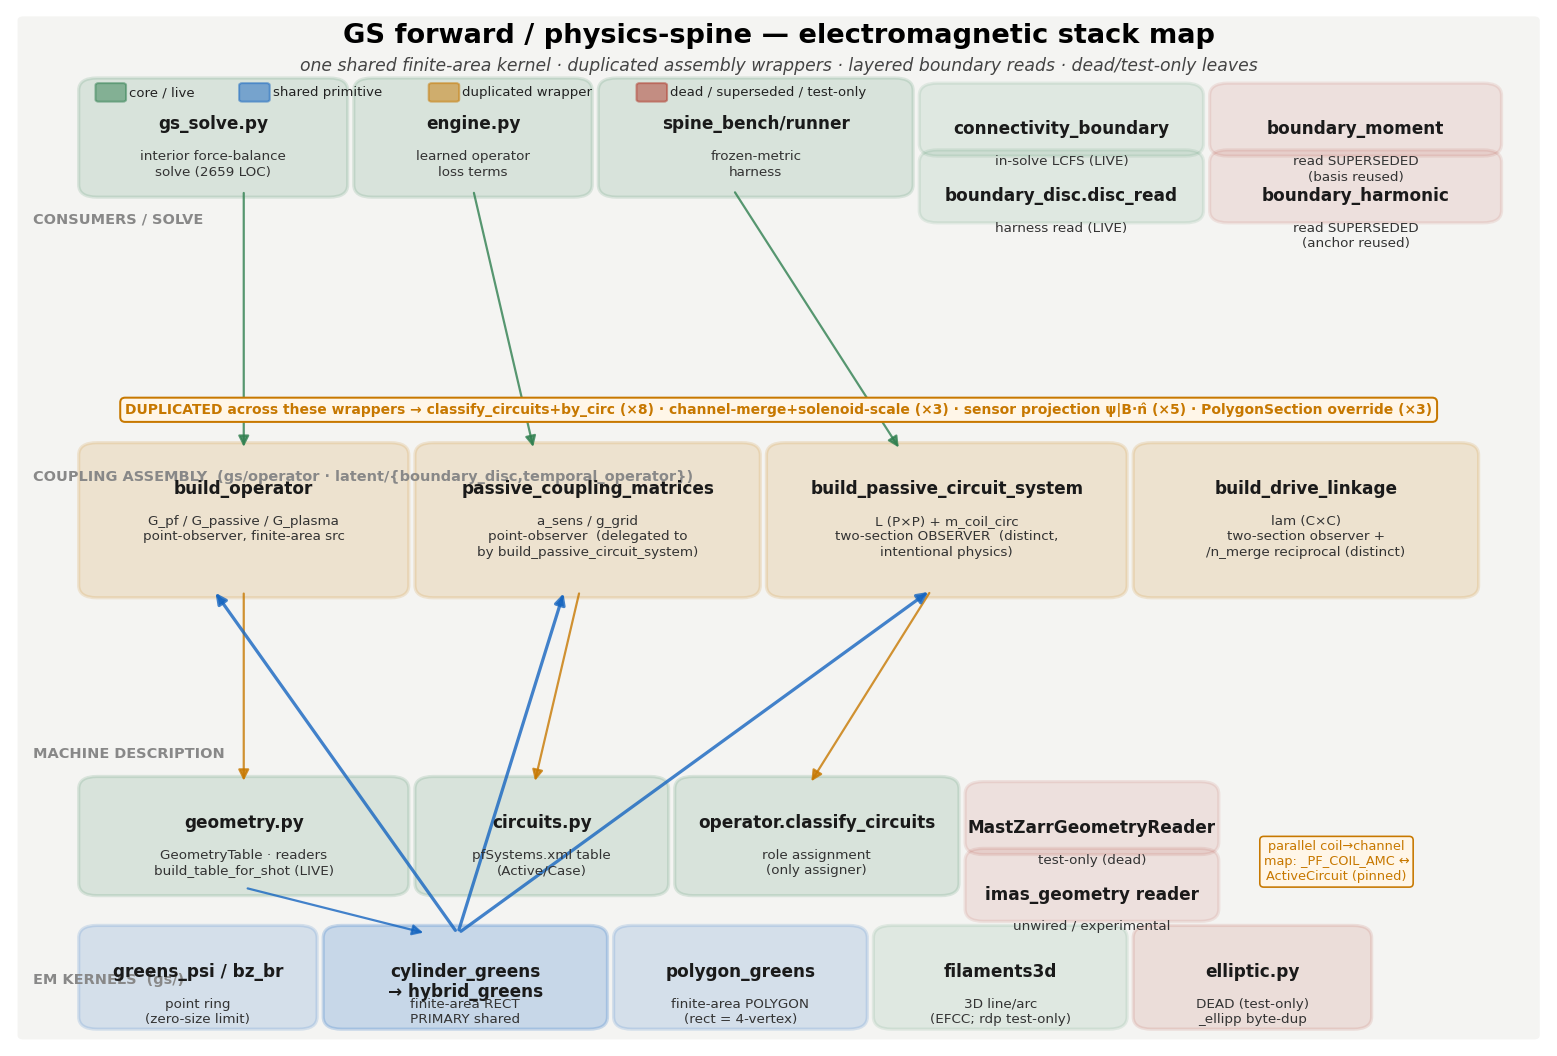
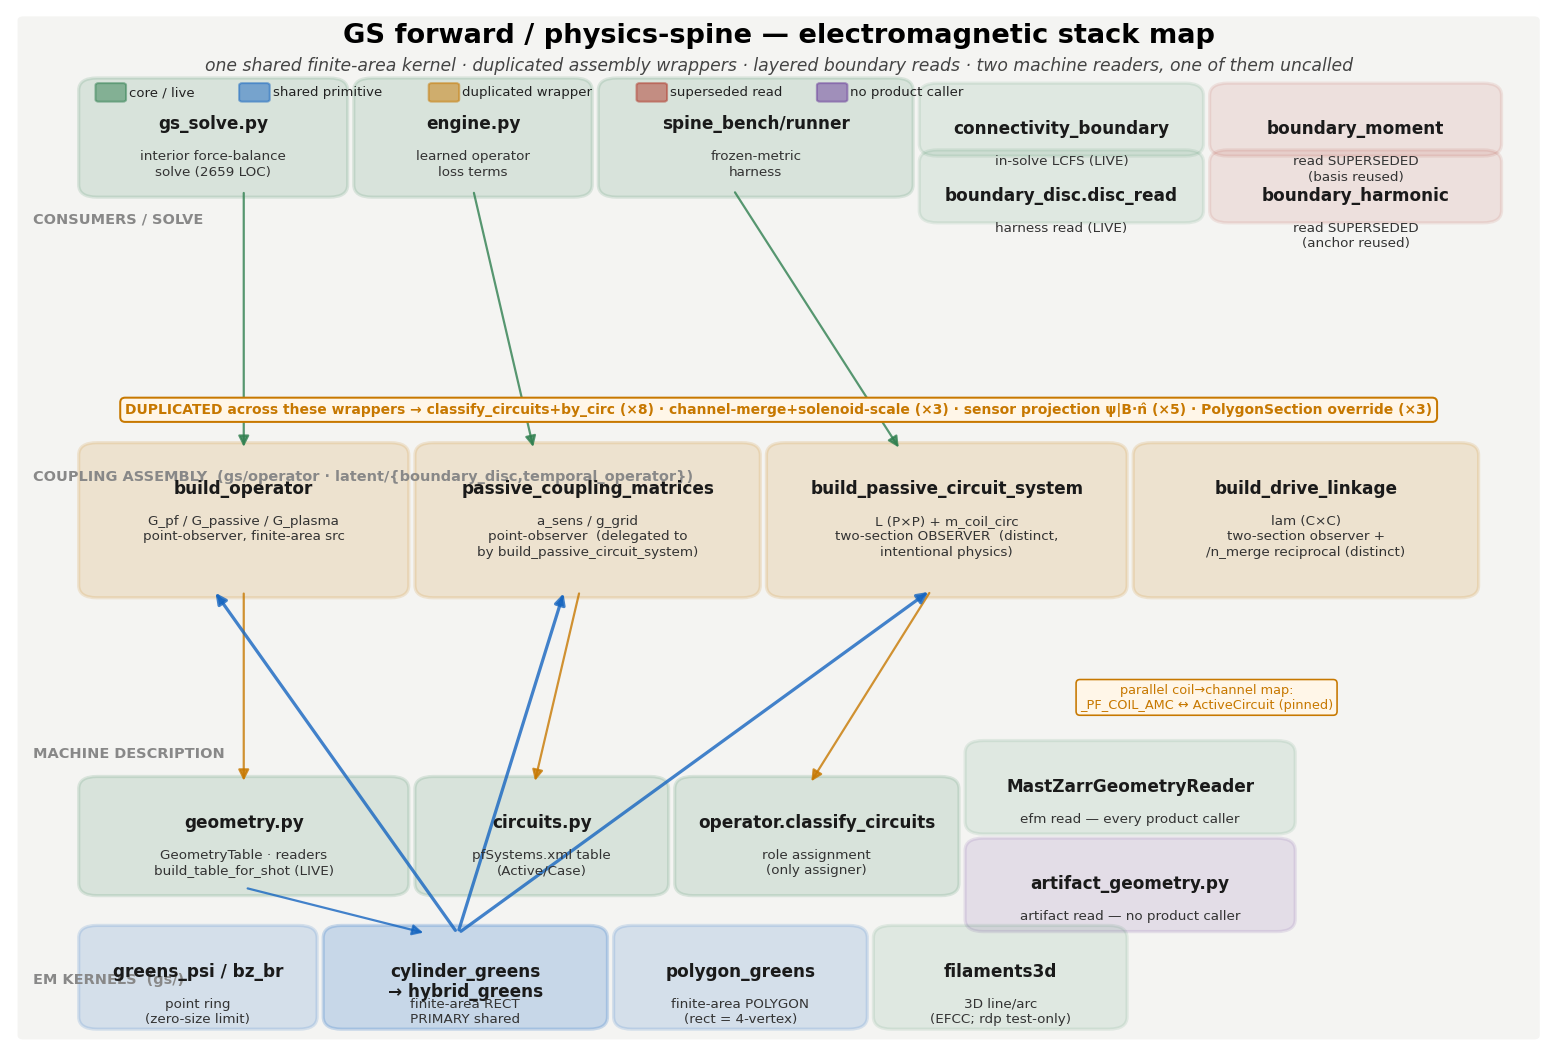
docs(gs): draw the machine-description tier as it now stands
The stack map is hand-encoded, so a box only leaves the figure when someone
edits the script: it still drew the loose-IDS ITER reader and the unused
elliptic kernel, both deleted once the published-artifact reader superseded
them, and it labelled MastZarrGeometryReader dead when every product caller
reaches efm geometry through it.

Replaces those with the two readers that exist and states which one anything
calls. The artifact reader is implemented, verified by its own tests and
reachable only from them, so it gets a colour of its own rather than being
folded in with live code or with superseded code -- neither is what "no
product caller" means, and the distinction is the whole content of this tier.

Anchors re-checked against the tree: every module and symbol the figure names
resolves, including connectivity_boundary, which is a module rather than a
function and survives a symbol-only search only by accident.

diff --git a/scripts/plot_physics_spine_map.py b/scripts/plot_physics_spine_map.py
@@ -4,9 +4,10 @@
 A read-only diagnostic figure for the consolidation review: it lays out the
 electromagnetic stack in three tiers (kernels -> coupling assembly ->
 machine-description + consumers) and annotates the duplicated wrappers, the
-dead/superseded modules, and the shared primitives.  No project code is
-imported — the layout is hand-encoded from the survey so the figure never
-drifts if a module moves.
+shared primitives, the superseded boundary reads, and the readers that are
+implemented but carry no product caller.  No project code is imported — the
+layout is hand-encoded from the survey so the figure never drifts if a module
+moves, which also means a box only disappears when someone edits this file.
 
 Output: docs/figures/physics-spine-consolidation/fig-em-stack-map.png
 """
@@ -28,6 +29,7 @@ LIVE = "#2f7f4f"      # green — core/live
 SHARED = "#1565c0"    # blue — shared primitive
 DUP = "#c77800"       # amber — duplicated wrapper
 DEAD = "#b0392b"      # red — dead / test-only / superseded
+UNWIRED = "#6a3d9a"   # purple — implemented but no product caller
 BG = "#f4f4f2"
 
 
@@ -67,7 +69,7 @@ def main() -> None:
             ha="center", fontsize=13.5, fontweight="bold")
     ax.text(0.5, 0.945,
             "one shared finite-area kernel · duplicated assembly wrappers · "
-            "layered boundary reads · dead/test-only leaves",
+            "layered boundary reads · two machine readers, one of them uncalled",
             ha="center", fontsize=8.6, color="#444", style="italic")
 
     # ---- Tier labels ----
@@ -109,9 +111,12 @@ def main() -> None:
     box(ax, 0.05, 0.15, 0.20, 0.10, "geometry.py", "GeometryTable · readers\nbuild_table_for_shot (LIVE)", LIVE)
     box(ax, 0.27, 0.15, 0.15, 0.10, "circuits.py", "pfSystems.xml table\n(Active/Case)", LIVE)
     box(ax, 0.44, 0.15, 0.17, 0.10, "operator.classify_circuits", "role assignment\n(only assigner)", LIVE)
-    box(ax, 0.63, 0.19, 0.15, 0.055, "MastZarrGeometryReader", "test-only (dead)", DEAD, alpha=0.10)
-    box(ax, 0.63, 0.125, 0.15, 0.055, "imas_geometry reader", "unwired / experimental", DEAD, alpha=0.10)
-    ax.text(0.865, 0.175, "parallel coil→channel\nmap: _PF_COIL_AMC ↔\nActiveCircuit (pinned)",
+    box(ax, 0.63, 0.21, 0.20, 0.075, "MastZarrGeometryReader",
+        "efm read — every product caller", LIVE, alpha=0.10)
+    box(ax, 0.63, 0.115, 0.20, 0.075, "artifact_geometry.py",
+        "artifact read — no product caller", UNWIRED, alpha=0.12)
+    ax.text(0.78, 0.335,
+            "parallel coil→channel map:\n_PF_COIL_AMC ↔ ActiveCircuit (pinned)",
             ha="center", va="center", fontsize=6.4, color=DUP,
             bbox=dict(boxstyle="round,pad=0.3", fc="#fff6e8", ec=DUP, lw=0.8))
 
@@ -120,7 +125,6 @@ def main() -> None:
     box(ax, 0.21, 0.02, 0.17, 0.085, "cylinder_greens\n→ hybrid_greens", "finite-area RECT\nPRIMARY shared", SHARED, alpha=0.20)
     box(ax, 0.40, 0.02, 0.15, 0.085, "polygon_greens", "finite-area POLYGON\n(rect = 4-vertex)", SHARED)
     box(ax, 0.57, 0.02, 0.15, 0.085, "filaments3d", "3D line/arc\n(EFCC; rdp test-only)", LIVE, alpha=0.10)
-    box(ax, 0.74, 0.02, 0.14, 0.085, "elliptic.py", "DEAD (test-only)\n_ellipp byte-dup", DEAD, alpha=0.12)
 
     # ---- flows ----
     arrow(ax, 0.15, 0.44, 0.15, 0.25, DUP)          # assembly -> machine desc
@@ -140,7 +144,8 @@ def main() -> None:
         ("core / live", LIVE),
         ("shared primitive", SHARED),
         ("duplicated wrapper", DUP),
-        ("dead / superseded / test-only", DEAD),
+        ("superseded read", DEAD),
+        ("no product caller", UNWIRED),
     ]
     # place legend swatches along the top
     lx = 0.055
